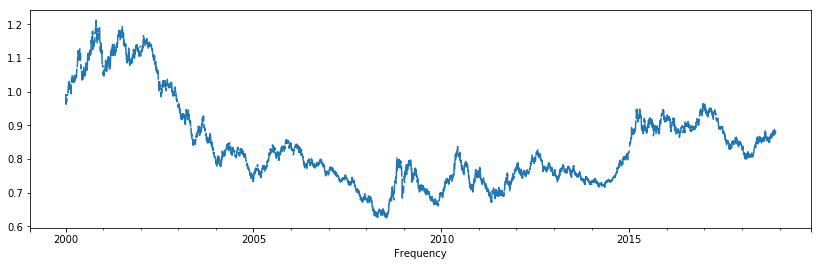
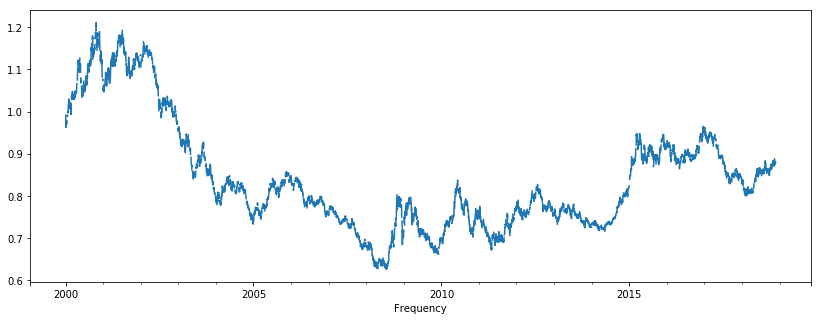
fix readme master

diff --git a/README.md b/README.md
@@ -149,11 +149,20 @@ xr.tail()
 
 
 ```python
-xr['Euro'].plot(figsize = (14,4));
+xr['Euro'].plot(figsize = (14,5));
 ```
 
 
 ![png](index_files/index_12_0.png)
+
+
+
+```python
+xr['Australian Dollar'].plot(figsize = (14,5));
+```
+
+
+![png](index_files/index_13_0.png)
 
 
 More on random walk can be found [here](https://machinelearningmastery.com/gentle-introduction-random-walk-times-series-forecasting-python/) (to read up to where autocorrelation is covered).
